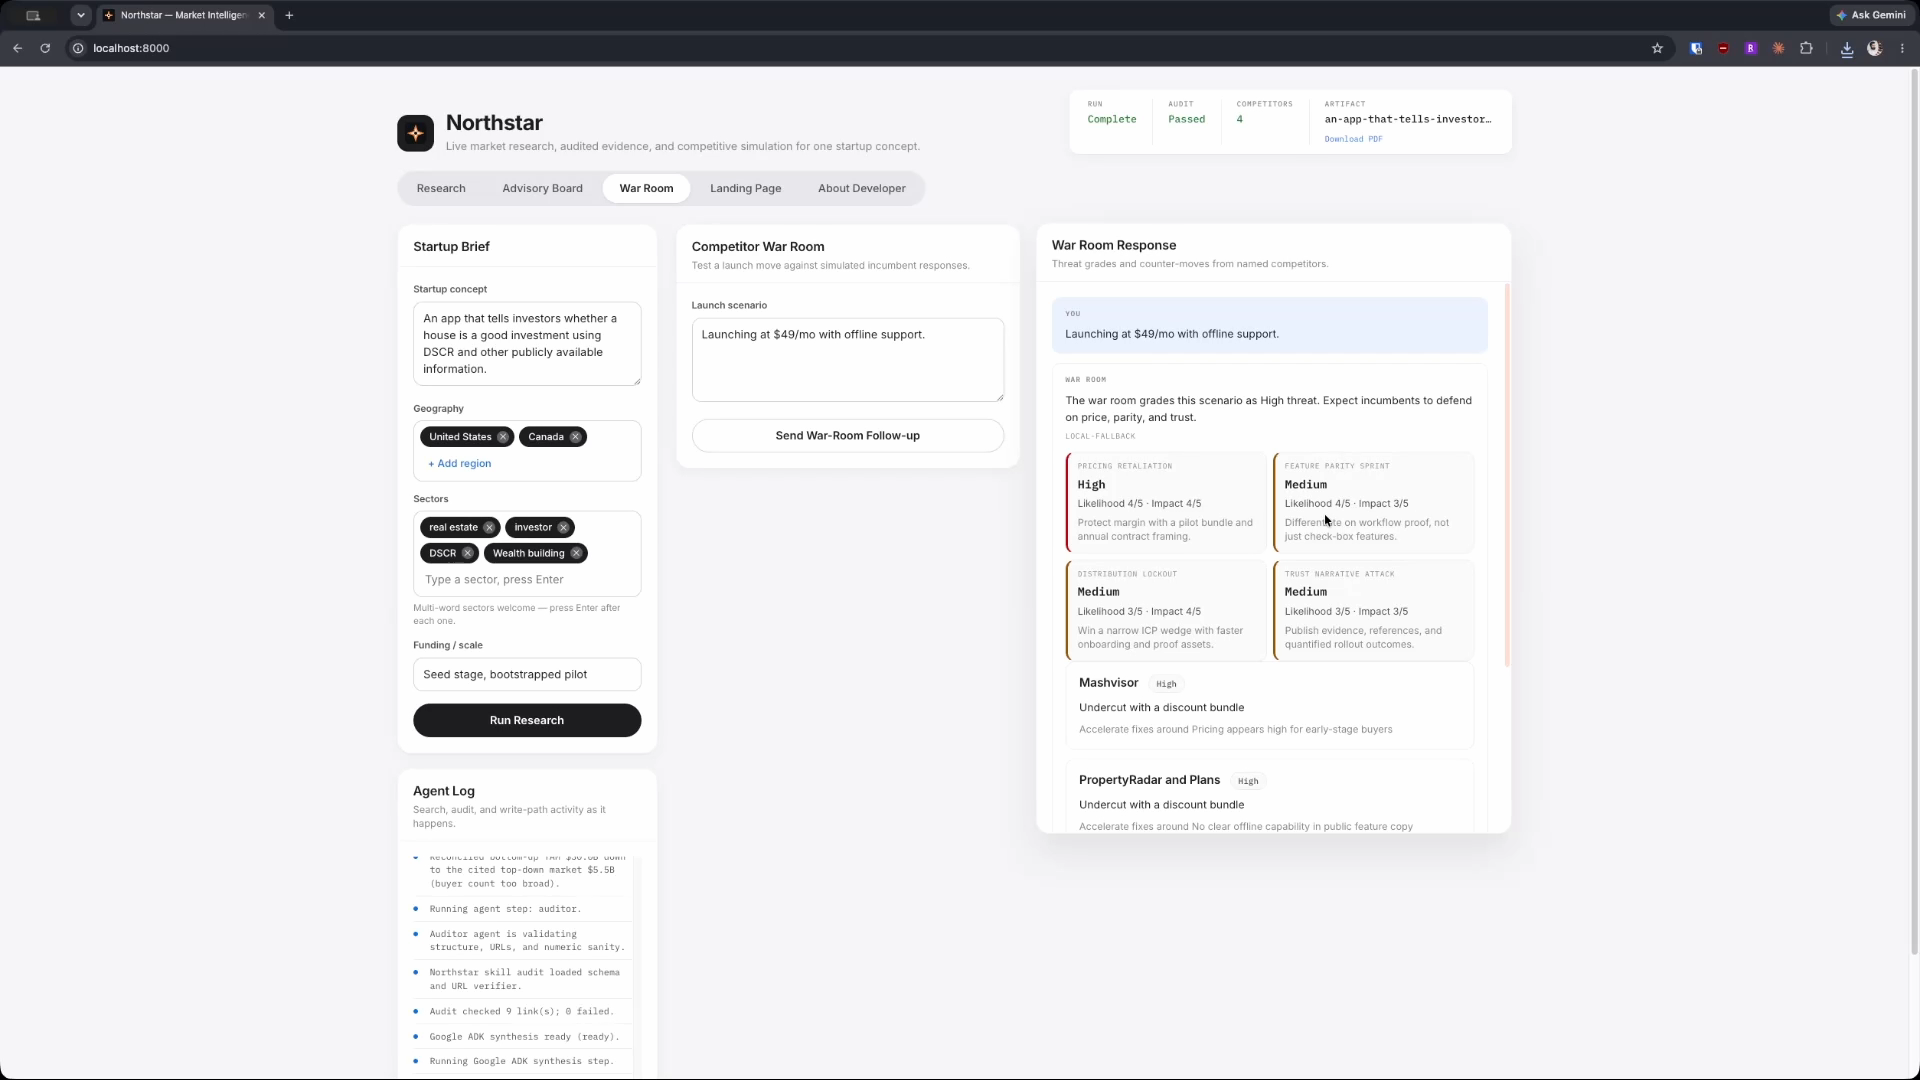
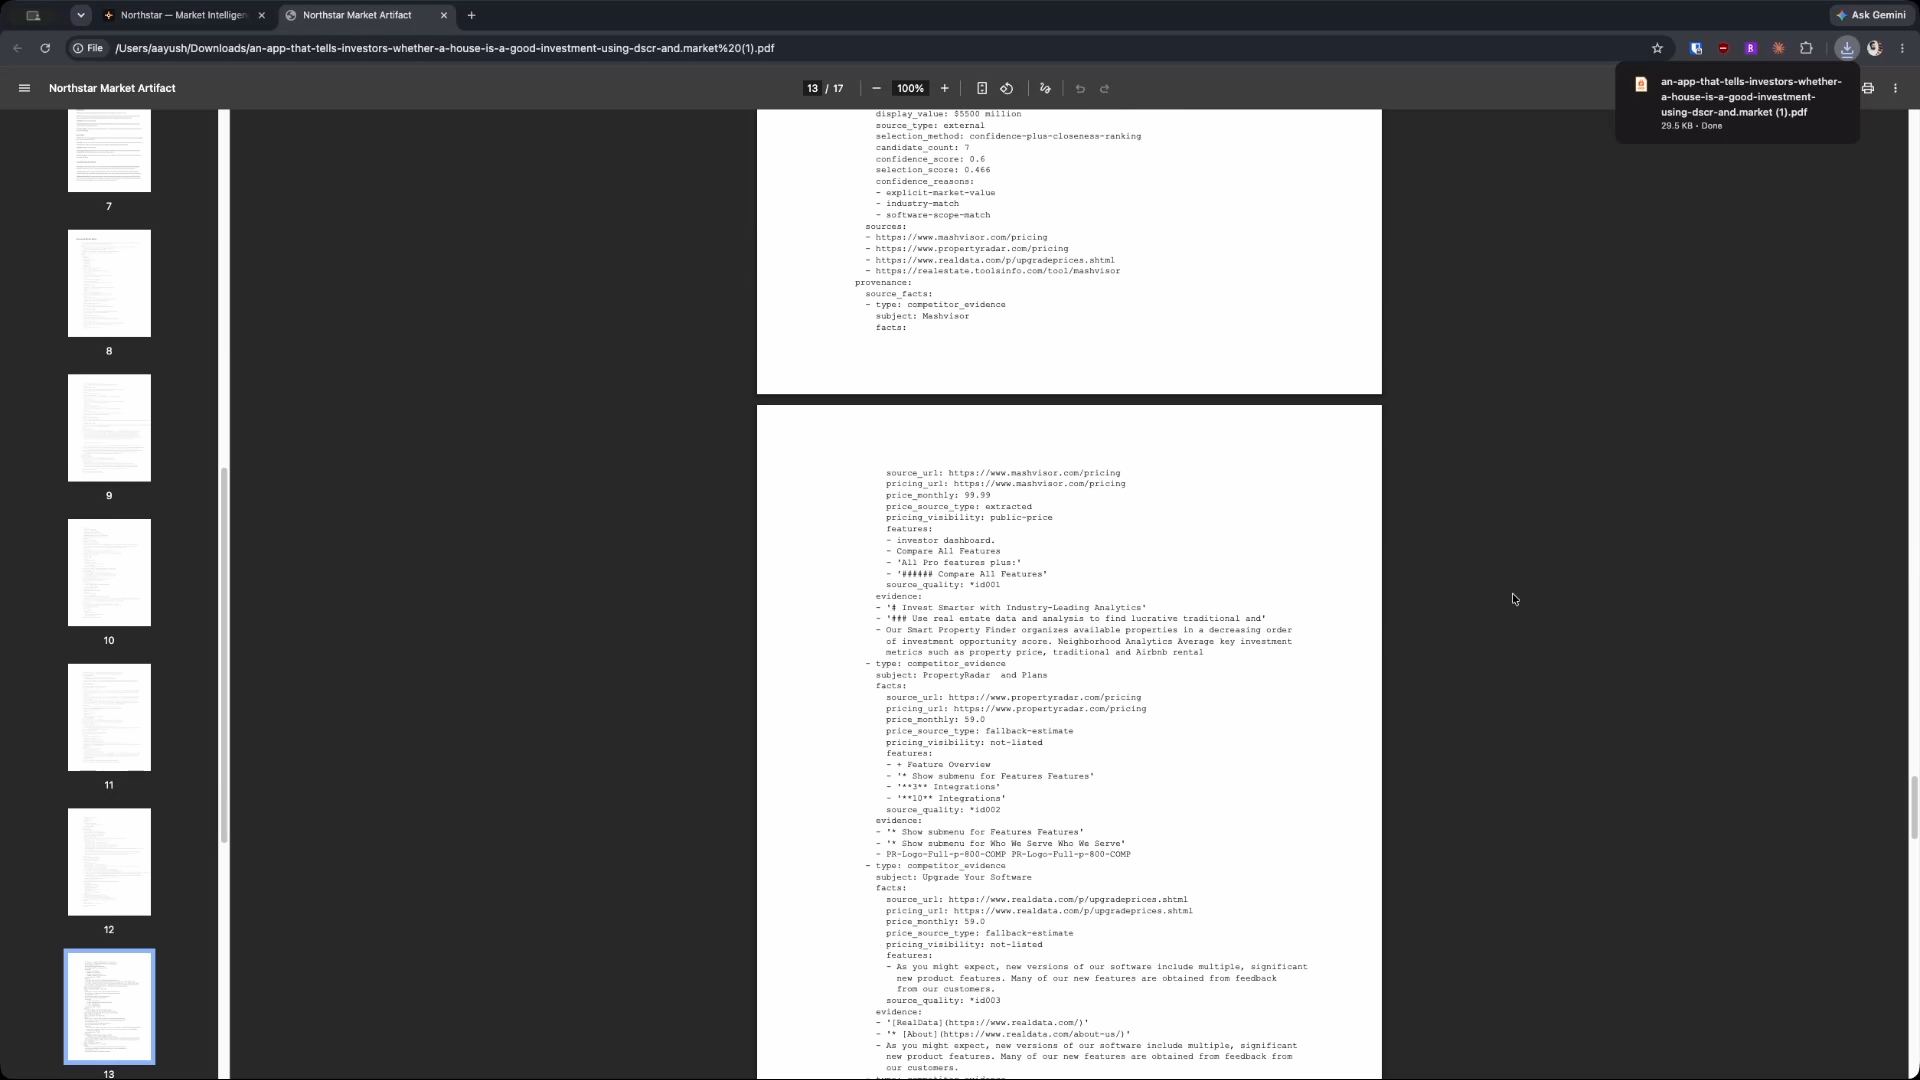
design: update script and push all 5 demo video screenshots

diff --git a/extract_screenshots.py b/extract_screenshots.py
@@ -34,13 +34,13 @@ def main():
     output_dir = Path("screenshots")
     output_dir.mkdir(exist_ok=True)
     
-    # Standard timestamps for the 5-minute video pitch:
+    # Standard timestamps for the 2m 43s video pitch:
     timestamps = {
         "00:00:10": "screenshots/intro_dashboard.png",
         "00:01:15": "screenshots/architecture_overview.png",
-        "00:02:30": "screenshots/live_research_results.png",
-        "00:03:45": "screenshots/customer_advisory_board.png",
-        "00:04:30": "screenshots/competitor_war_room.png"
+        "00:02:00": "screenshots/live_research_results.png",
+        "00:02:25": "screenshots/customer_advisory_board.png",
+        "00:02:40": "screenshots/competitor_war_room.png"
     }
     
     print(f"Processing '{video_path}'...")